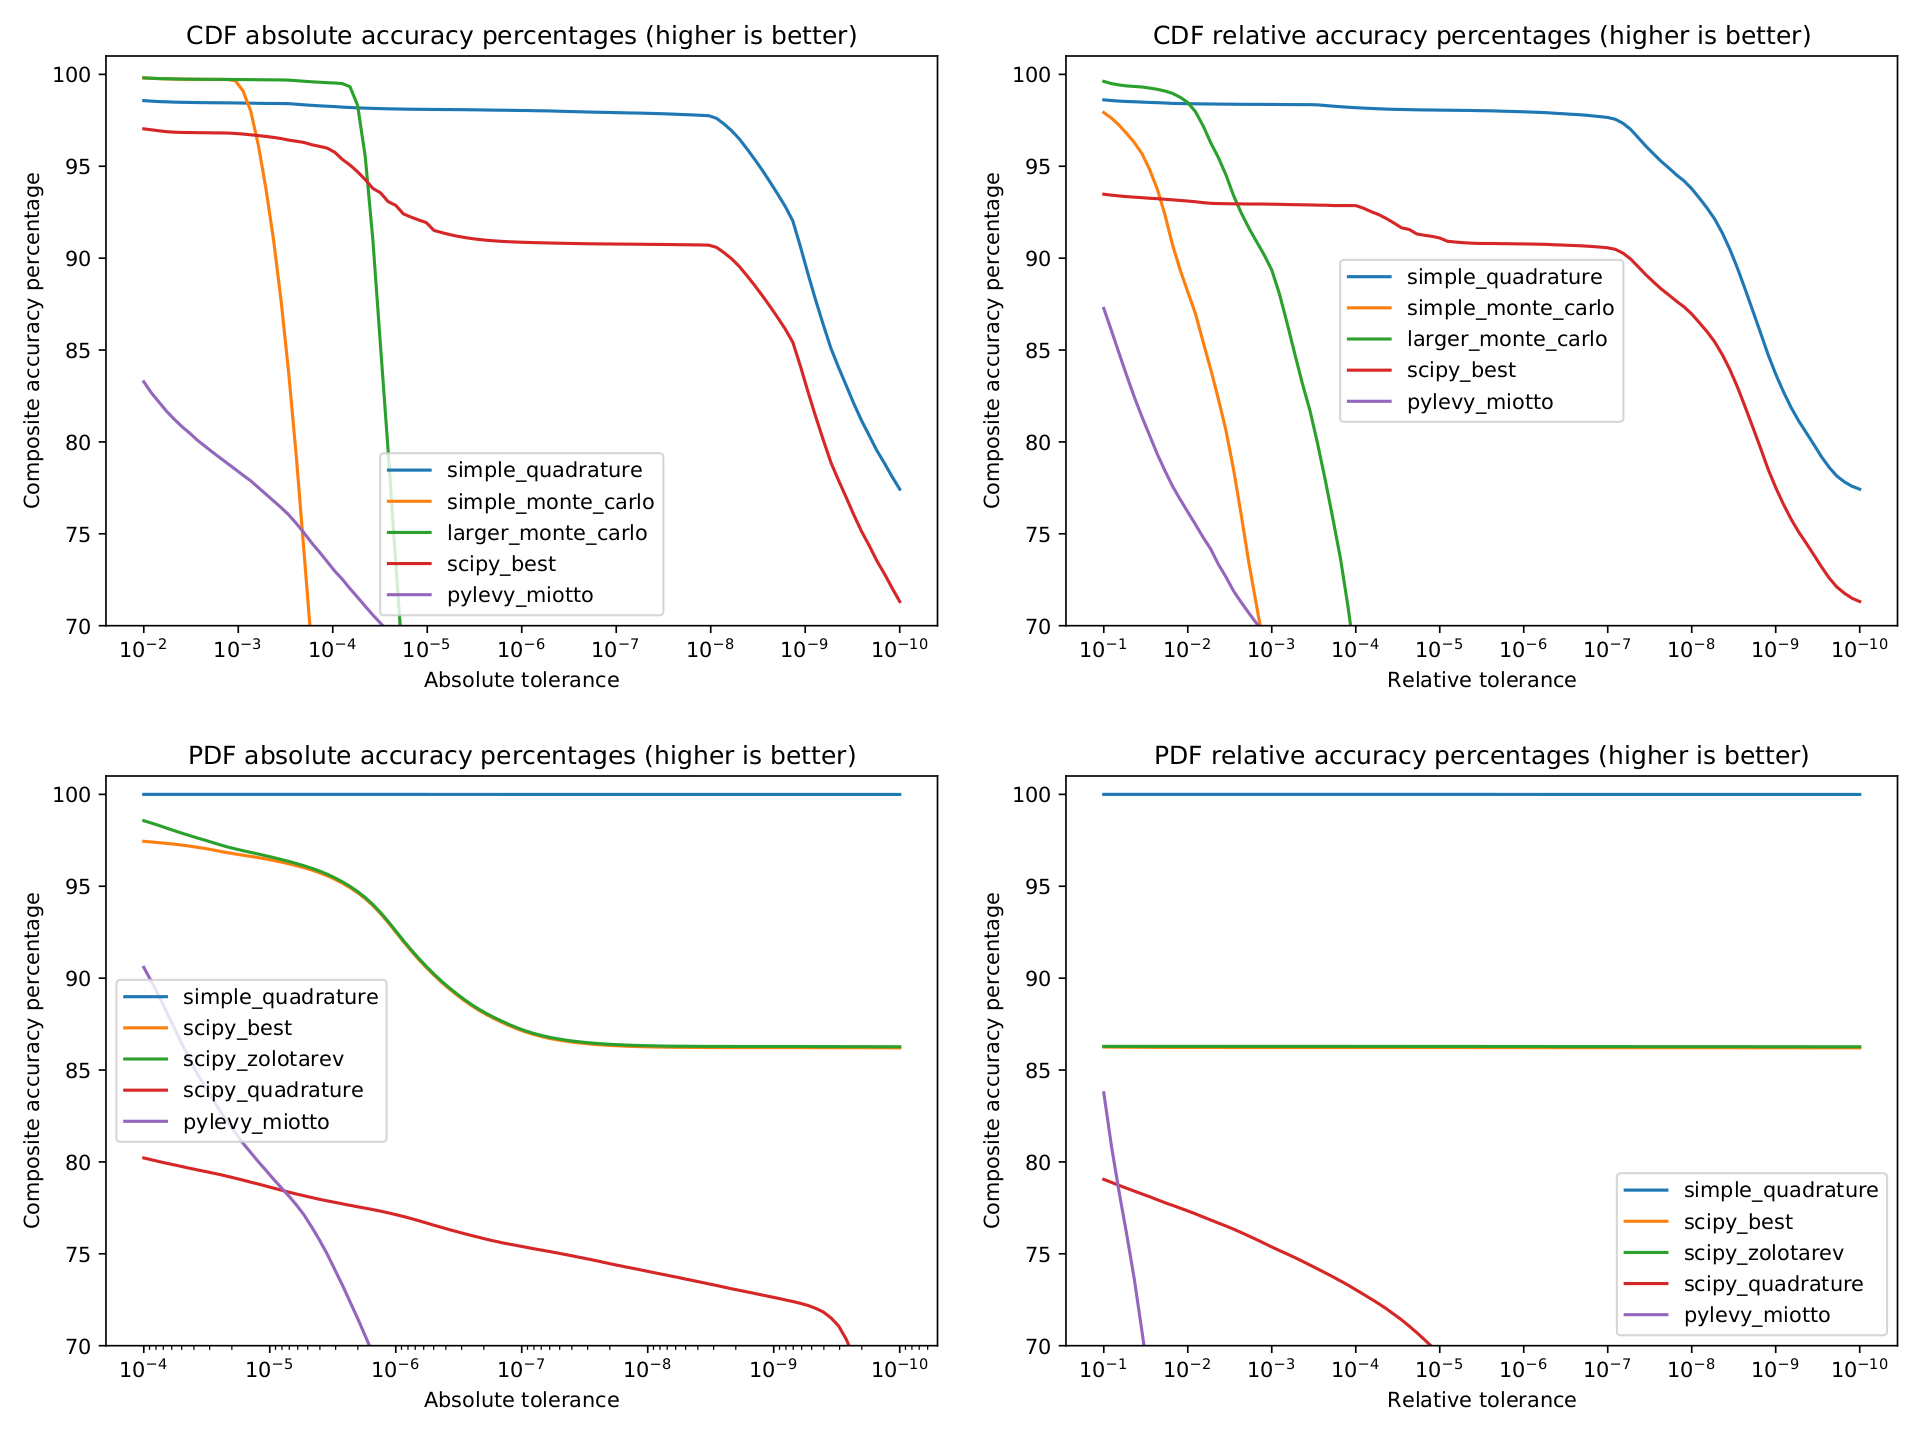
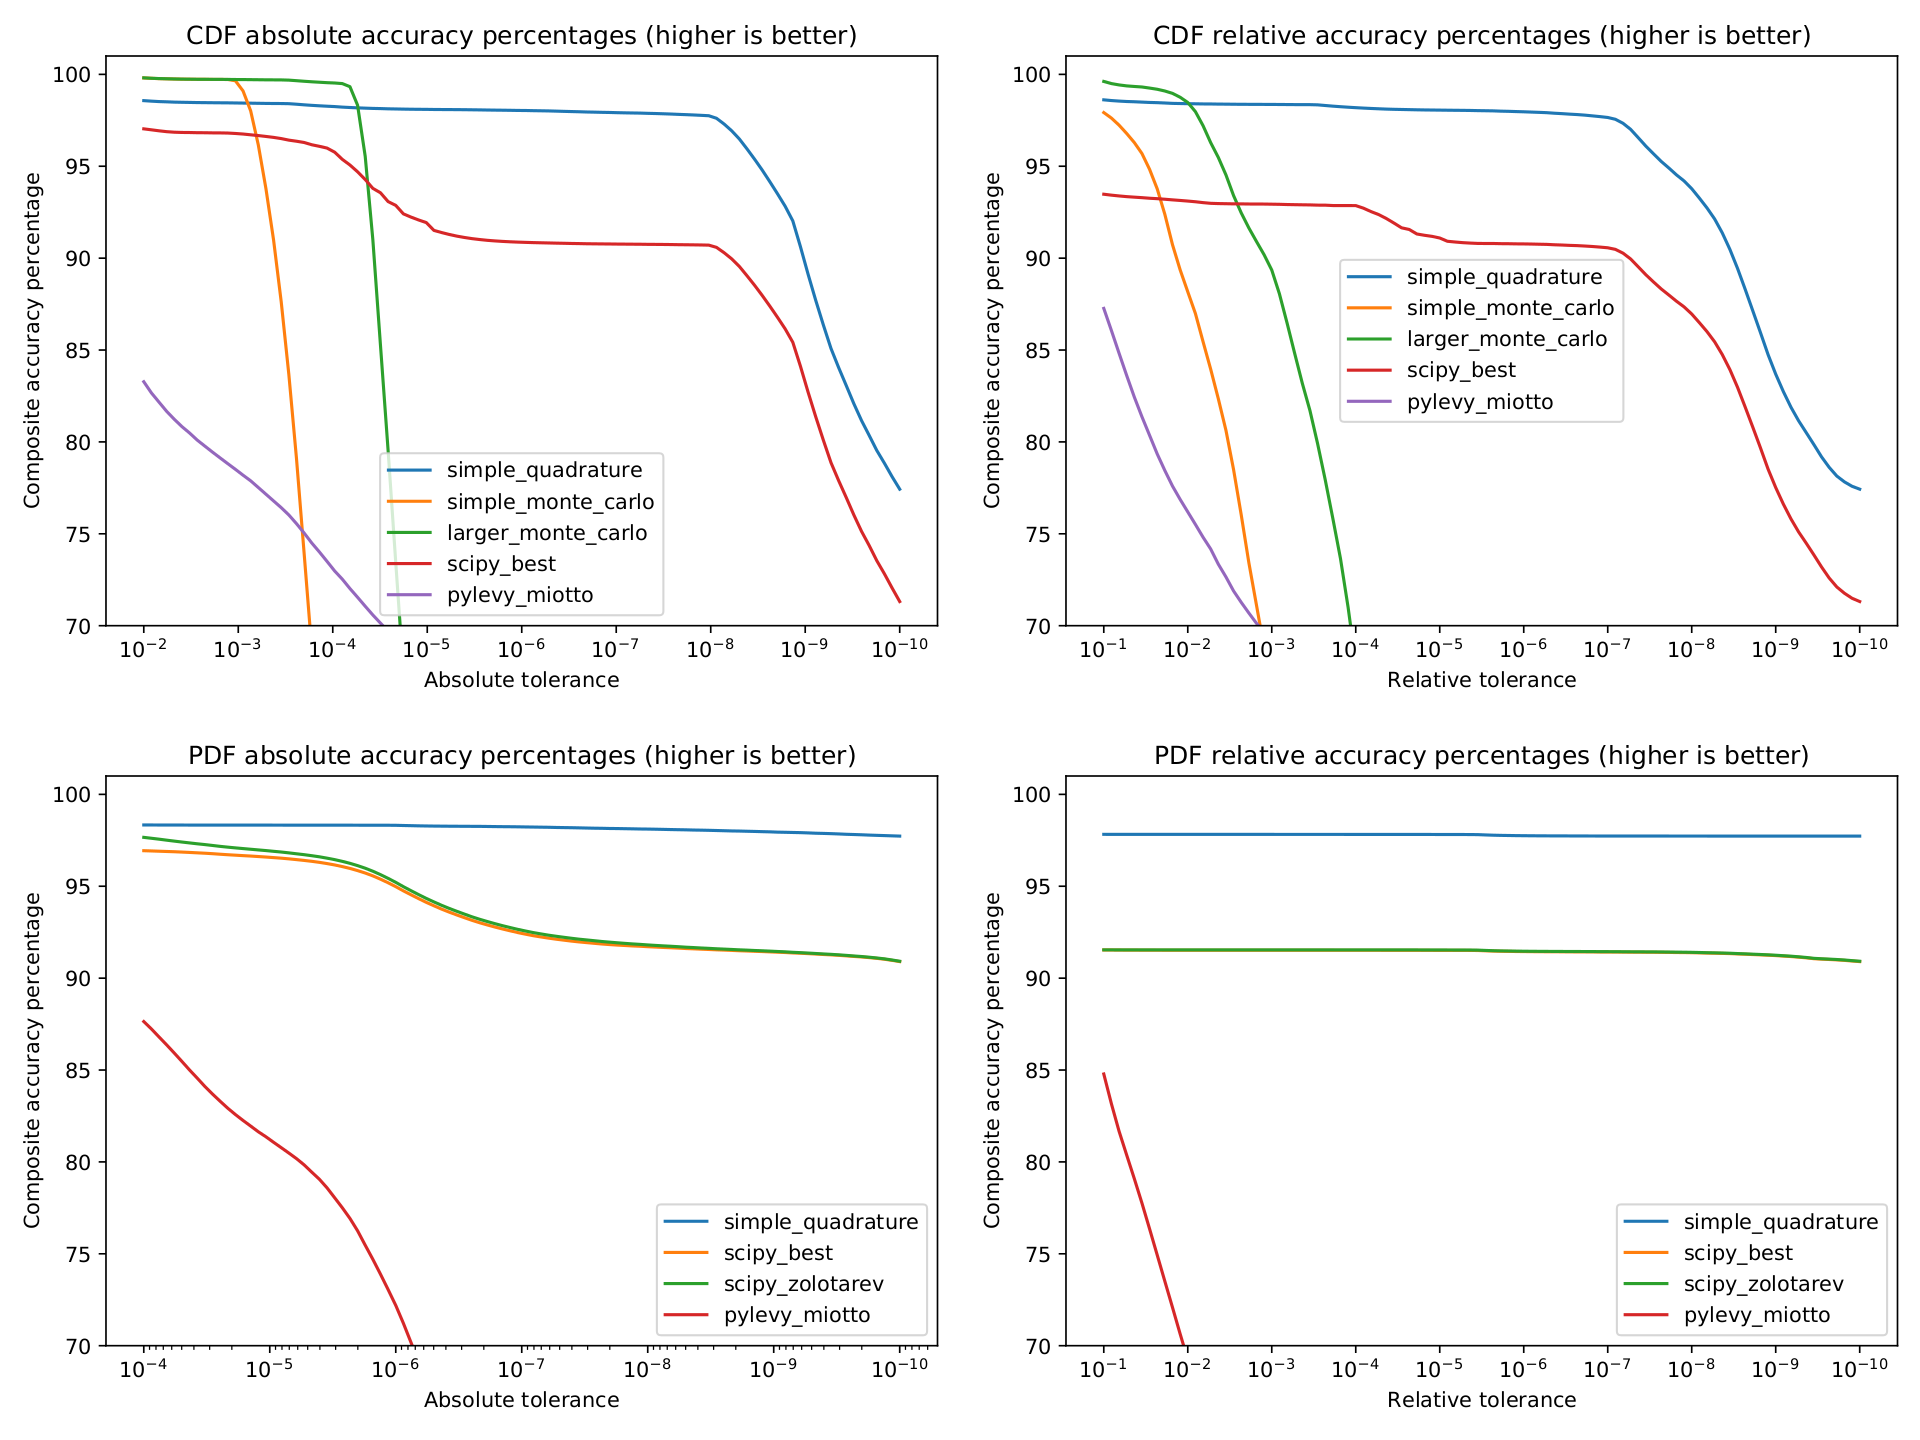
Update results figures and expand README FAQ

diff --git a/figures/generate_figures.py b/figures/generate_figures.py
@@ -17,9 +17,13 @@ if __name__ == "__main__":
         raise
 
     cdf_tables = [import_stable_tables("data/cdf_table.dat"),
-                  import_stable_tables("data/quantile_table.dat", expect_quantiles=True),
+                  import_stable_tables("data/cdf_quantile_table.dat", expect_quantiles=True),
                   import_nolan_quantiles()]
-    pdf_tables = [import_stable_tables("data/pdf_table.dat")]
+    pdf_tables = [import_stable_tables("data/pdf_table.dat"),
+                  import_stable_tables("data/pdf_quantile_table.dat", single_queries=True,
+                                       num_values_expected=len(cdf_tables[1])),
+                  import_stable_tables("data/nolan_pdf_quantile.dat", single_queries=True,
+                                       num_values_expected=len(cdf_tables[2]))]
     num_plotting_points = 100
 
 
@@ -30,10 +34,9 @@ if __name__ == "__main__":
 
 
     def composite_pdf_accuracy_percentage(func, tol, tol_is_absolute):
-        # there is currently only one PDF table
-        assert len(pdf_tables) == 1
-        table = pdf_tables[0]
-        return 100 * test_accuracy_against_table(func, table, tol, tol_is_absolute=tol_is_absolute)
+        # 1/3rd weighting to each PDF table
+        return 100 * np.mean([test_accuracy_against_table(func, table, tol=tol, tol_is_absolute=tol_is_absolute)
+                              for table in pdf_tables])
 
 
     for density_function, use_absolute_tolerances in zip(["CDF", "CDF", "PDF", "PDF"], [True, False, True, False]):

diff --git a/README.md b/README.md
@@ -12,6 +12,9 @@ such implementations. We also provide some alternative calculation methods.
 
 ![accuracy figures](figures/accuracy_figures.png)
 
+Note: the new PDF computations for scipy_quadrature will take several days
+to complete. The figure above will be updated then.
+
 # Table of Contents
   * [CDF accuracy percentages](#CDFAccuracy)
   * [PDF accuracy percentages](#PDFAccuracy)
@@ -432,7 +435,16 @@ TODO: table of contents for FAQ?
 
 ##### How are "accuracy percentage" and "composite accuracy" defined?
 
-TODO: truncated, not rounded. composite accuracy?
+"Accuracy percentage" is the percentage of tabulated values computed to the
+desired tolerance.
+
+When listed above, the accuracy percentages are truncated (not rounded), so a
+method will only have 100.0% accuracy if it is within the specified tolerance
+on *all* the test cases.
+
+"Composite accuracy" is the average accuracy percentage on all the PDF or CDF
+tables. There are three tables each for PDF and CDF, so ~33% of the weighting
+goes to each.
 
 ##### Where did these PDF/CDF tables come from? Are they accurate?
 
@@ -440,11 +452,26 @@ TODO: Nolan quantile table may have some inaccuracies, but this needs more testi
 
 ##### What are some known limitations of this benchmark?
 
+TODO: beta < 0 implementation is assumed correct (by symmetry)
+
+TODO: behavior **very** far out (p < 0.00001) into the tails is not tested, but this is probably a minor concern in practice
+
 ##### Why is the range of tested absolute tolerances different for CDF vs. PDF?
 
 ##### Where can I find the libraries tested?
 
-TODO: large_monte_carlo?
+There are six methods tested here. See the links below and the code in [algorithms](algorithms).
+
+ * Our simple methods
+   * [**simple_quadrature**](algorithms/simple_quadrature.py): direct numerical integration (TODO: derivations?)
+   * [**simple_monte_carlo**](algorithms/simple_monte_carlo.py): monte carlo scheme based on the [Chambers-Mallows-Stuck method of simulating stable random variables](https://doi.org/10.1080%2F01621459.1976.10480344)
+   * **larger_monte_carlo**: same as simple_monte_carlo, but with a sample size of 100 million
+ * Scipy's methods (tested on version 1.5.2)
+   * [**scipy_best**](https://docs.scipy.org/doc/scipy/reference/generated/scipy.stats.levy_stable.html) with `pdf_default_method = "best"`
+   * [**scipy_zolotarev**](https://docs.scipy.org/doc/scipy/reference/generated/scipy.stats.levy_stable.html) with `pdf_default_method = "zolotarev"`
+   * [**scipy_quadrature**](https://docs.scipy.org/doc/scipy/reference/generated/scipy.stats.levy_stable.html) with `pdf_default_method = "quadrature"`
+ * [**pylevy_miotto**](https://github.com/josemiotto/pylevy) (tested on commit [64c525f](https://github.com/josemiotto/pylevy/tree/64c525f273d00d89cbbe531a6557b17b74d18f88))
+ * TODO: pystable_jones?
 
 ##### The literature is very inconsistent/fragmented with respect to parameterizing stable distributions. Are you sure the libraries are actually consistent in their calculations here?
 
